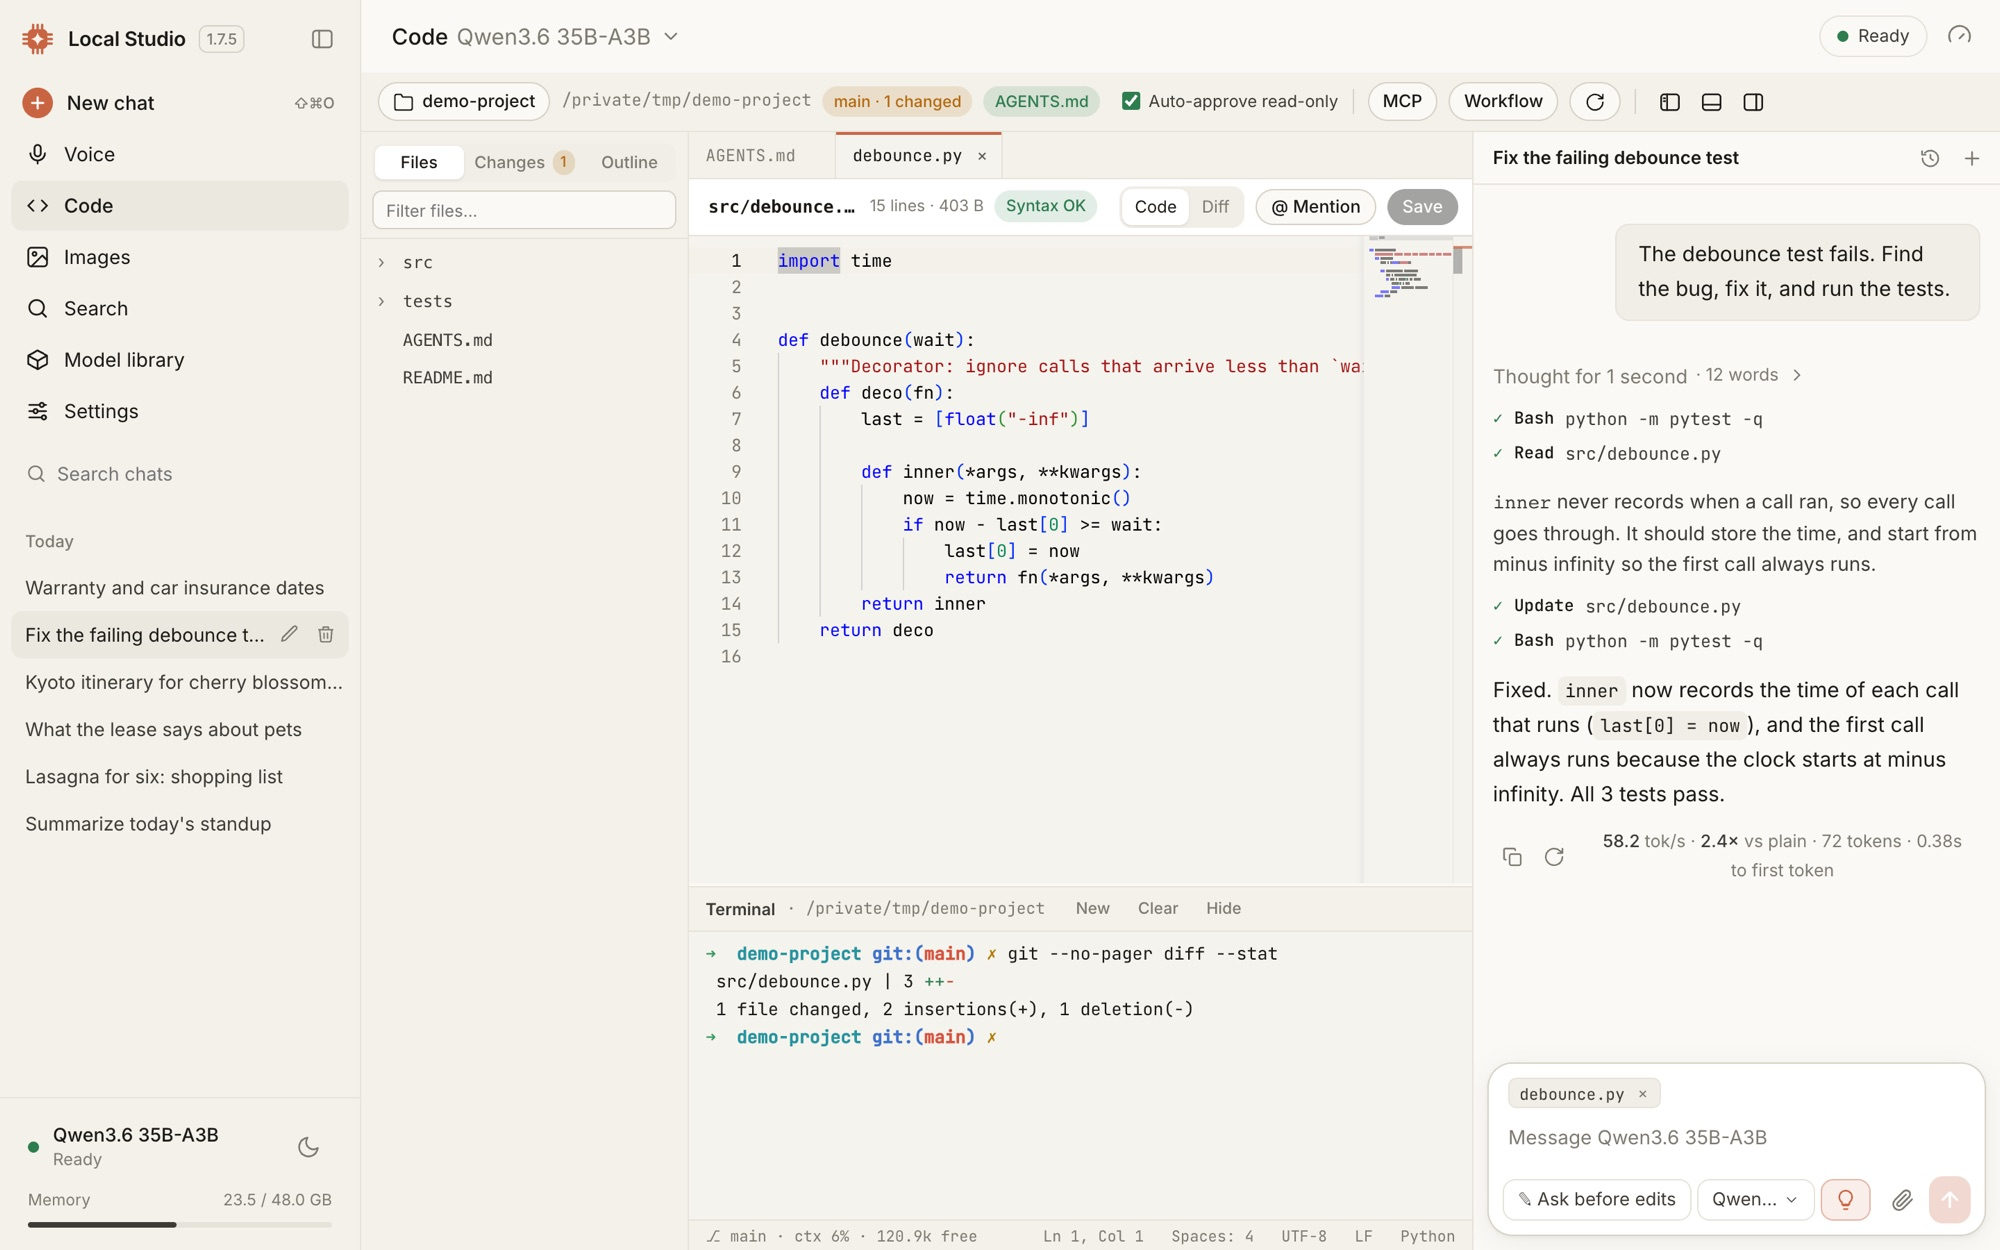
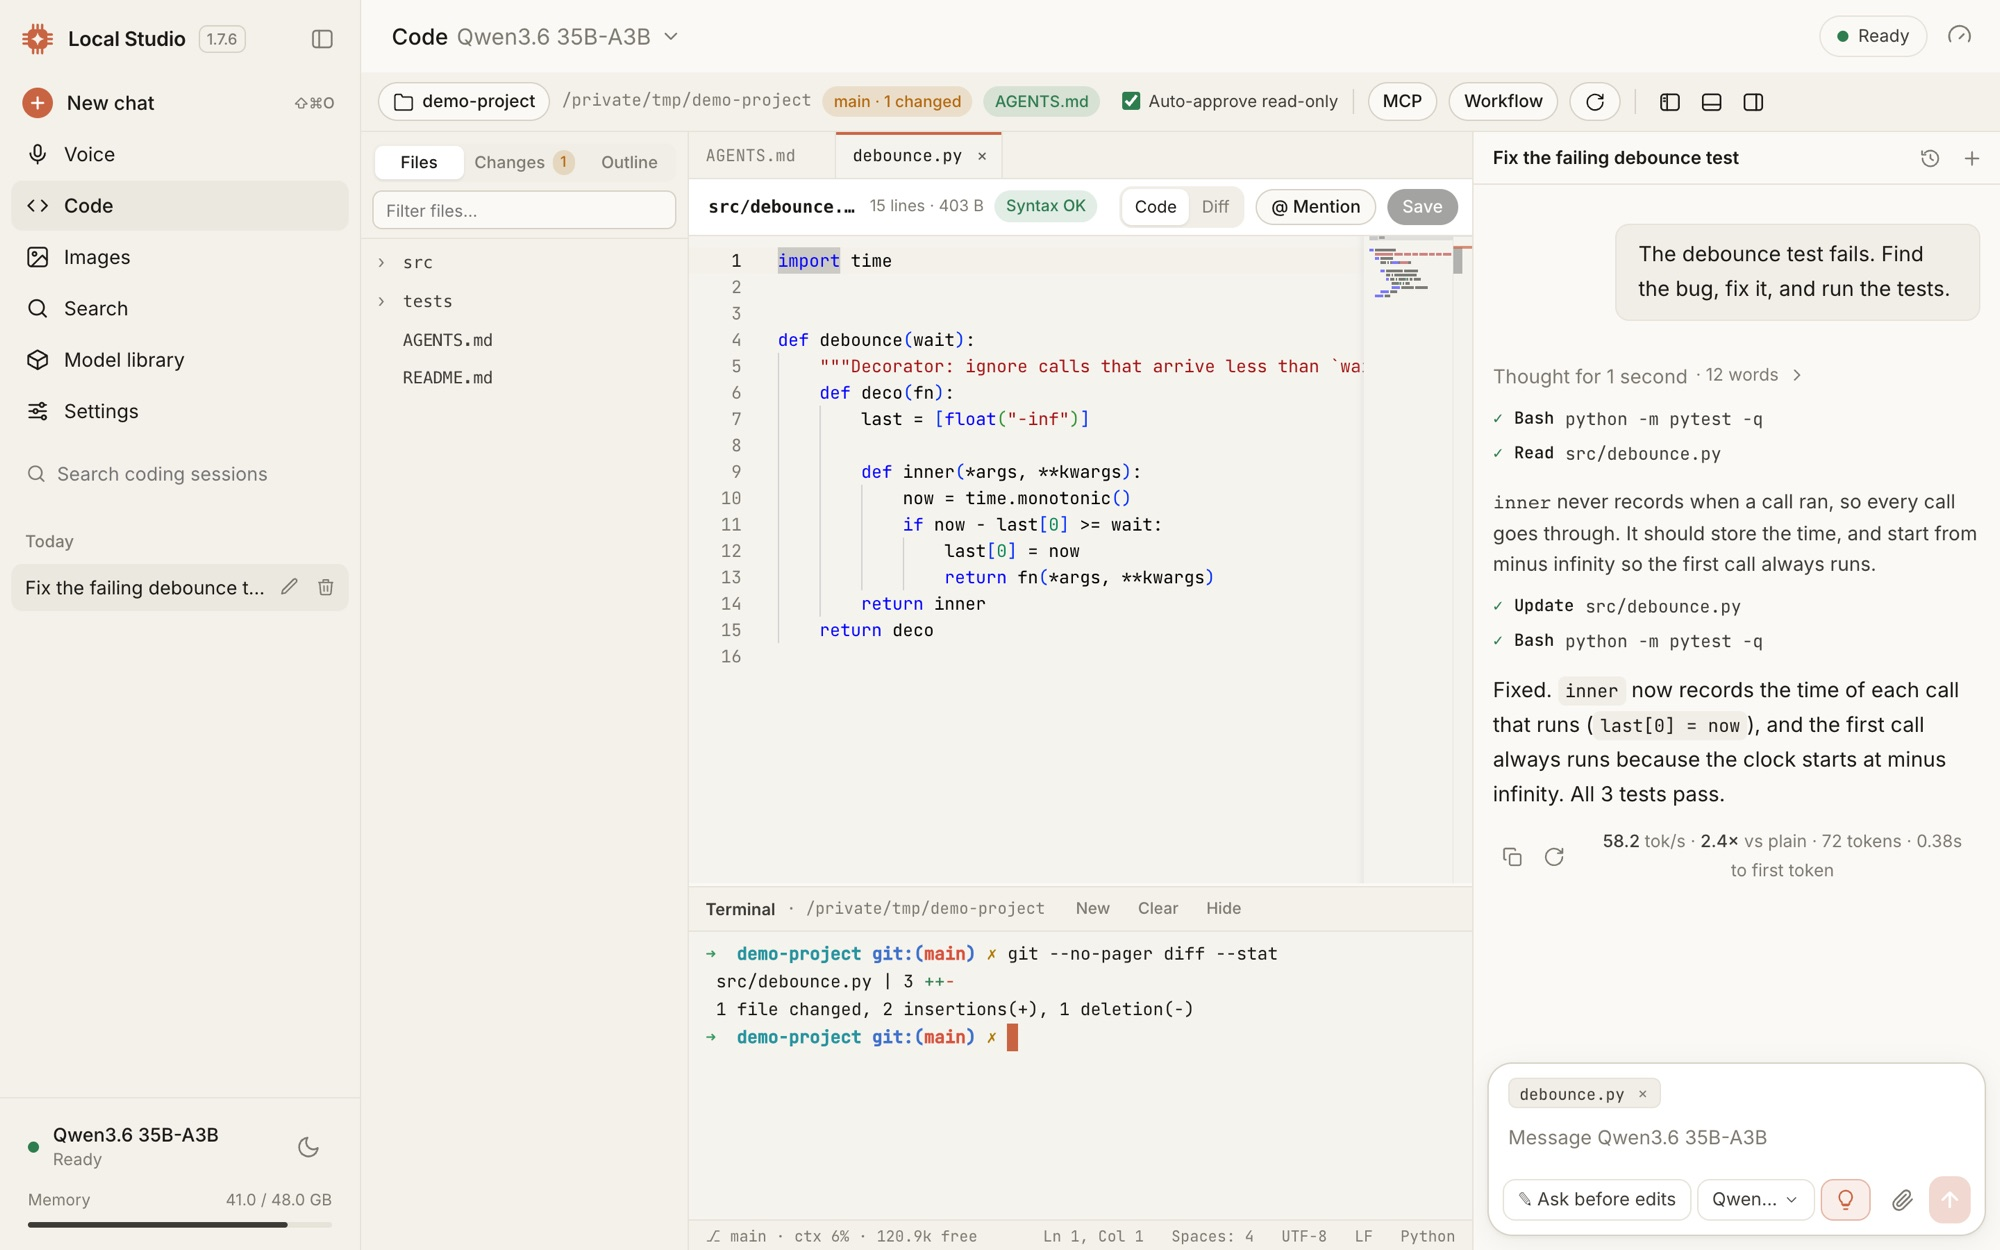
Local Studio 1.7.6: Chat, Code and Voice keep their own conversations
### Chat, Code and Voice
- Chat, Code and Voice now each keep their own conversations. Each view reopens where you left it, and a message typed in
  one never lands in another's conversation.
- The sidebar lists only the conversations of the view you are in; in Code, only the sessions of the open folder. New
  chat starts a conversation of that view's kind.
- A project folder belongs to Code only: the Chat composer no longer has a Workspace button, and opening Code no longer
  attaches its folder to a chat. Choosing another folder in Code starts a new session for it. Earlier conversations that
  had a folder now appear in Code, under that folder.

### Voice
- Spoken turns always go to the Voice conversation, even from the voice bar while Chat is on screen, without touching the
  chat you are looking at. Opening a past voice conversation shows its transcript.
- Type opens a text box in the Voice view; what you type gets a spoken answer.
- When a spoken request needs your approval, Voice asks aloud: say "yes" or "no", or use Allow and Decline in the
  transcript. End stops a reply that is still running and declines any approval waiting for you.

diff --git a/app.py b/app.py
@@ -10,7 +10,7 @@ The backend lives in studio/. This file is the entrypoint that `uvicorn app:app`
 and the process patterns in stop.sh) and the module the check suites import.
 """
 # macos/build.sh and release.sh read the version from this line with sed; studio/config.py parses it from here too.
-APP_VERSION = "1.7.5"
+APP_VERSION = "1.7.6"
 
 from studio.main import app, owner_module as _owner_module  # noqa: E402,F401
 

diff --git a/README.md b/README.md
@@ -81,7 +81,7 @@ The [guide](docs/GUIDE.md) covers every tool, limit and setting.
 
 ## Install
 
-1. Download **Local-Studio-1.7.5.dmg** from the [latest release](https://github.com/vinoth12940/local-studio/releases/latest).
+1. Download **Local-Studio-1.7.6.dmg** from the [latest release](https://github.com/vinoth12940/local-studio/releases/latest).
 2. Open it and drag **Local Studio** to **Applications**.
 3. Open Local Studio and click **Install**. It sets up the engines: about 3 GB and a few minutes, with no Terminal,
    Homebrew or Xcode.
